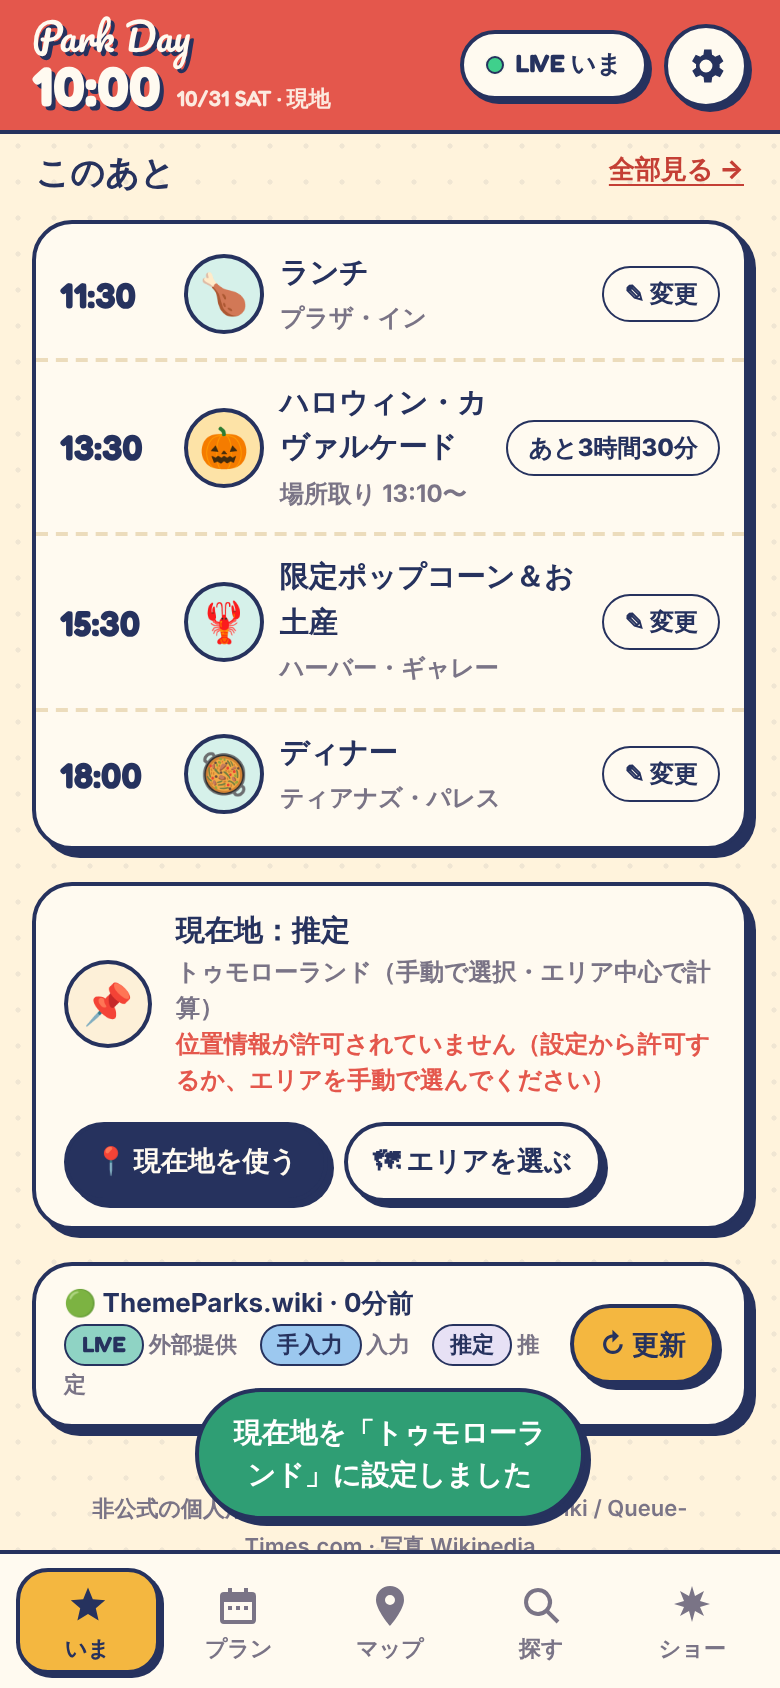
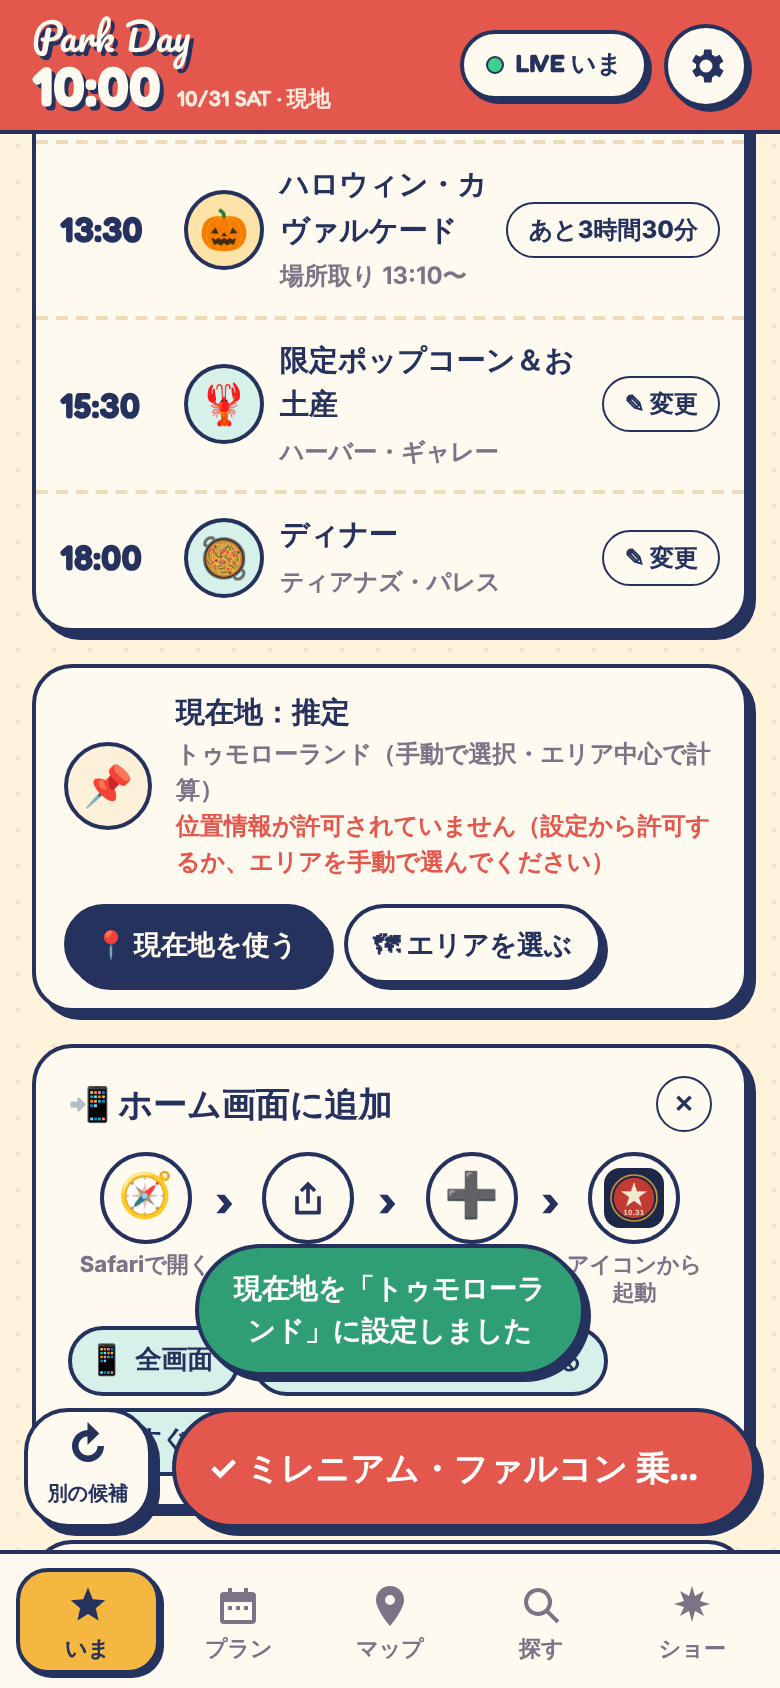
Add resume/drop alerts, wait-time trend charts, one-handed action bar, add-to-home guide
- Alerts when a closed ride reopens or a popular ride's wait drops sharply;
  '行く！' pins it as the next destination (engine pin support)
- Today's observed waits recorded on-device: sparkline + trend arrow in the
  list, full chart with estimate overlay and touch readout in the detail
- Fixed thumb-reach bar: big '✓ … 乗った！' + '別の候補' on the home tab
- Visual add-to-Home-Screen guide (hidden when already installed)

Claude-Session: https://claude.ai/code/session_01MSeHRc9pCts64YeVAfPi3j

diff --git a/public/js/app.js b/public/js/app.js
@@ -22,6 +22,8 @@ const defaults = {
   landAt: 0,
   lastDone: null,      // { id, at }
   sim: null,           // { base: minutes, setAt: ms } — time simulation for testing
+  pin: null,           // { id, until } destination chosen from an alert
+  a2hsDismissed: false,
   exploreTab: 'rides', exploreFilter: 'all', exploreSort: 'reco', foodFilter: 'all',
   mapFilter: 'rides',
   tab: 'home',
@@ -46,6 +48,8 @@ const R = {
   meta: null, photos: {},
   gpsPos: null, gpsErr: null, gpsWatch: null,
   lastPlanIds: null,
+  hist: {},            // { rideId: [[min, wait|null], ...] } today's observed waits (this device)
+  alerts: [],          // [{ id, type:'reopen'|'drop', from, to, at }]
 };
 try {
   const c = JSON.parse(localStorage.getItem(KEY + ':live') || 'null');
@@ -54,6 +58,8 @@ try {
   if (m && Date.now() - m.at < 12 * 3600e3) R.meta = m.data;
   const p = JSON.parse(localStorage.getItem(KEY + ':photos') || 'null');
   if (p && Date.now() - p.at < 3 * 86400e3 && p.data && Object.values(p.data)[0]?.source) R.photos = p.data;
+  const h = JSON.parse(localStorage.getItem(KEY + ':hist') || 'null');
+  if (h?.date === TRIP.date) R.hist = h.data || {};
 } catch { /* ignore */ }
 
 // =====================================================================
@@ -173,6 +179,7 @@ async function fetchLive({ manual = false } = {}) {
     clearTimeout(t);
     const j = await res.json().catch(() => null);
     if (!res.ok || !j?.ok) throw new Error(j?.errors?.join(' / ') || `HTTP ${res.status}`);
+    if (!j.stale) { detectAlerts(R.live?.ok && !R.live.stale ? R.live : null, j); recordHistory(j); }
     R.live = j; R.liveReceivedAt = Date.now(); R.liveStatus = j.stale ? 'stale' : 'ok'; R.liveError = j.stale ? (j.errors || []).join(' / ') : null;
     localStorage.setItem(KEY + ':live', JSON.stringify({ at: R.liveReceivedAt, data: j }));
     if (manual) toast(j.stale ? '最新取得に失敗：前回の値を表示中' : `待ち時間を更新しました（${j.sourceLabel}）`, j.stale ? 'error' : 'ok');
@@ -183,6 +190,36 @@ async function fetchLive({ manual = false } = {}) {
   }
   renderAll();
 }
+function recordHistory(j) {
+  const m = Math.round(nowMin());
+  for (const [id, v] of Object.entries(j.attractions || {})) {
+    const arr = (R.hist[id] ||= []);
+    const last = arr[arr.length - 1];
+    const w = v.status === 'OPERATING' && Number.isFinite(v.wait) ? v.wait : null;
+    if (last && Math.abs(last[0] - m) < 2) { last[1] = w; continue; }
+    arr.push([m, w]);
+    if (arr.length > 300) arr.shift();
+  }
+  try { localStorage.setItem(KEY + ':hist', JSON.stringify({ date: TRIP.date, data: R.hist })); } catch { /* full */ }
+}
+// Compare with the previous LIVE sample: a closed ride reopening, or a sudden wait drop.
+function detectAlerts(prev, next) {
+  if (!prev?.attractions || nowMin() < hours().open) return;
+  const fresh = [];
+  for (const [id, v] of Object.entries(next.attractions || {})) {
+    const a = attractionById[id], p0 = prev.attractions[id];
+    if (!a || !p0 || S.done[id] || S.excluded[id]) continue;
+    if (p0.status !== 'OPERATING' && v.status === 'OPERATING' && p0.status !== 'REFURBISHMENT') fresh.push({ id, type: 'reopen', to: v.wait });
+    else if (v.status === 'OPERATING' && Number.isFinite(p0.wait) && Number.isFinite(v.wait) && p0.wait - v.wait >= 15 && v.wait <= p0.wait * 0.7 && (a.pop >= 4 || a.must)) fresh.push({ id, type: 'drop', from: p0.wait, to: v.wait });
+  }
+  if (!fresh.length) return;
+  fresh.sort((x, y) => (attractionById[y.id].must - attractionById[x.id].must) || (PRIORITY[y.id] || 0) - (PRIORITY[x.id] || 0));
+  const now = nowMin();
+  R.alerts = [...fresh.map((f) => ({ ...f, at: now })), ...R.alerts.filter((x) => !fresh.some((f) => f.id === x.id))].slice(0, 3);
+  try { navigator.vibrate?.([180, 80, 180]); } catch { /* unsupported (iOS) */ }
+}
+const activeAlerts = () => R.alerts.filter((x) => nowMin() - x.at < 20 && !S.done[x.id]);
+
 async function fetchMeta() {
   try {
     const res = await fetch('/api/meta');
@@ -248,7 +285,7 @@ function ctx(extra = {}) {
   return {
     now, openMin: h.open, closeMin: h.close, pos: (() => { const p = position(); return p.lat == null ? null : p; })(),
     planId: S.plan, done: S.done, excluded: S.excluded, skip: S.skip, live, crowd: crowdRatio(live, now),
-    anchors: anchors(), coords: coordsMap(), ...extra,
+    anchors: anchors(), coords: coordsMap(), pin: S.pin, ...extra,
   };
 }
 
@@ -318,6 +355,7 @@ function markDone(id) {
   S.doneMin[id] = nowMin();
   S.lastDone = { id, at: Date.now() };
   delete S.skip[id];
+  if (S.pin?.id === id) S.pin = null;
   save(); renderAll();
   const n = doneRides().length;
   toast(`✓ ${doneName(id)} 完了！${attractionById[id] ? `（${n}つ目）` : ''}`, 'ok', { label: '取り消す', fn: () => undoDone(id, true) });
@@ -384,7 +422,7 @@ function renderClock() {
 const RCHIP = {
   must: ['★', '必須', 'must'], dip: ['📉', 'いつもより空き', 'good'], later: ['🔥', 'あとで混む', 'hot'], short: ['⏱', '待ち短め', 'good'],
   near: ['📍', 'すぐ近く', 'good'], pop: ['👑', '大人気', ''], fit: ['✅', '次の予定に間に合う', ''], bump: ['↪', '休憩を後ろへ', 'warn'],
-  soft: ['⚡', '場所取り短め', 'warn'], close: ['🌙', '閉園前に並べばOK', 'warn'],
+  soft: ['⚡', '場所取り短め', 'warn'], close: ['🌙', '閉園前に並べばOK', 'warn'], pin: ['📌', 'あなたが選択', 'must'],
 };
 const rchips = (reasons) => `<div class="rchips">${(reasons || []).map((x) => {
   const [i, t, k] = RCHIP[x.k] || ['•', x.t, ''];
@@ -396,6 +434,79 @@ function miniBar(start, parts, endLabel, endTime) {
   const total = parts.reduce((s, p) => s + Math.max(0, p.m), 0) || 1;
   return `<div class="minitl"><div class="minitl__bar">${parts.filter((p) => p.m > 0).map((p) => `<div class="minitl__seg minitl__seg--${p.k}" style="flex:${p.m} 1 0">${p.m / total > 0.14 ? esc(p.t) : ''}</div>`).join('')}</div>
     <div class="minitl__labels"><span>いま ${clock(start)}</span><span>${endLabel} ${clock(endTime)}</span></div></div>`;
+}
+
+// ---------- wait-time trend (today's observed values on this device) ----------
+function trendOf(id) {
+  const pts = (R.hist[id] || []).filter((p) => p[1] != null);
+  if (pts.length < 2) return null;
+  const last = pts[pts.length - 1];
+  const ref = pts.filter((p) => p[0] <= last[0] - 20).pop() || pts[0];
+  if (last[0] - ref[0] < 10) return null;
+  const d = last[1] - ref[1];
+  return { d, dir: d <= -10 ? 'down' : d >= 10 ? 'up' : 'flat', mins: last[0] - ref[0] };
+}
+const TREND = { down: ['↘', '減少中', 'var(--good)'], up: ['↗', '増加中', 'var(--bad)'], flat: ['→', '横ばい', 'var(--muted)'] };
+function sparkSmall(id) {
+  const pts = (R.hist[id] || []).filter((p) => p[1] != null);
+  if (pts.length < 2) return '';
+  const w = 70, h = 22, x0 = pts[0][0], x1 = Math.max(pts[pts.length - 1][0], x0 + 30);
+  const ymax = Math.max(30, ...pts.map((p) => p[1]));
+  const X = (m) => 2 + ((m - x0) / (x1 - x0)) * (w - 8), Y = (v) => h - 3 - (v / ymax) * (h - 6);
+  const t = trendOf(id);
+  const last = pts[pts.length - 1];
+  return `<span class="spark" title="今日の待ち時間の推移"><svg viewBox="0 0 ${w} ${h}" width="${w}" height="${h}" aria-hidden="true">
+    <line x1="2" x2="${w - 2}" y1="${h - 3}" y2="${h - 3}" stroke="var(--soft)" stroke-width="1"/>
+    <polyline fill="none" stroke="var(--navy)" stroke-width="2" stroke-linejoin="round" stroke-linecap="round" points="${pts.map((p) => `${X(p[0]).toFixed(1)},${Y(p[1]).toFixed(1)}`).join(' ')}"/>
+    <circle cx="${X(last[0]).toFixed(1)}" cy="${Y(last[1]).toFixed(1)}" r="3.5" fill="var(--red)" stroke="var(--paper)" stroke-width="1.5"/></svg>${t ? `<b style="color:${TREND[t.dir][2]}">${TREND[t.dir][0]}</b>` : ''}</span>`;
+}
+function sparkBig(a) {
+  const pts = (R.hist[a.id] || []);
+  const h0 = hours();
+  const W = 320, H = 130, L = 30, Rr = 8, T = 10, B = 22;
+  const x0 = h0.open, x1 = h0.close;
+  const est = [];
+  for (let m = x0; m <= x1; m += 30) est.push([m, Math.round(estimateWait(a, m) * crowdRatio(liveMap(), nowMin()))]);
+  const vals = [...pts.filter((p) => p[1] != null).map((p) => p[1]), ...est.map((p) => p[1])];
+  const ymax = Math.max(30, Math.ceil(Math.max(...vals) / 30) * 30);
+  const X = (m) => L + ((m - x0) / (x1 - x0)) * (W - L - Rr), Y = (v) => T + (1 - v / ymax) * (H - T - B);
+  const grid = [0, ymax / 2, ymax].map((v) => `<line x1="${L}" x2="${W - Rr}" y1="${Y(v)}" y2="${Y(v)}" stroke="var(--soft)" stroke-width="1"/><text x="${L - 4}" y="${Y(v) + 4}" text-anchor="end" class="ax">${v}</text>`).join('');
+  const xt = [8, 12, 16, 20].filter((hh) => hh * 60 >= x0 && hh * 60 <= x1).map((hh) => `<text x="${X(hh * 60)}" y="${H - 6}" text-anchor="middle" class="ax">${hh}時</text>`).join('');
+  // observed line, broken where the ride was closed (null)
+  const segs = []; let cur = [];
+  for (const p of pts) { if (p[1] == null) { if (cur.length) segs.push(cur); cur = []; } else cur.push(p); }
+  if (cur.length) segs.push(cur);
+  const live = segs.map((sg) => sg.length === 1 ? `<circle cx="${X(sg[0][0])}" cy="${Y(sg[0][1])}" r="3" fill="var(--navy)"/>` : `<polyline fill="none" stroke="var(--navy)" stroke-width="2" stroke-linejoin="round" stroke-linecap="round" points="${sg.map((p) => `${X(p[0]).toFixed(1)},${Y(p[1]).toFixed(1)}`).join(' ')}"/>`).join('');
+  const nowX = X(Math.min(x1, Math.max(x0, nowMin())));
+  const lastP = pts.filter((p) => p[1] != null).pop();
+  const data = esc(JSON.stringify({ pts: pts.filter((p) => p[1] != null), est, x0, x1, L, R: Rr, W }));
+  return `<div class="bigspark" data-spark="${data}">
+    <div class="bigspark__head"><b>待ち時間の推移</b><span class="bigspark__legend"><i class="lg lg--live"></i>今日の実測 <i class="lg lg--est"></i>推定</span></div>
+    <svg viewBox="0 0 ${W} ${H}" width="100%" role="img" aria-label="${esc(a.short)}の待ち時間の推移">
+      ${grid}${xt}
+      <polyline fill="none" stroke="var(--muted)" stroke-width="1.5" stroke-dasharray="4 4" points="${est.map((p) => `${X(p[0]).toFixed(1)},${Y(p[1]).toFixed(1)}`).join(' ')}"/>
+      ${live}
+      <line x1="${nowX}" x2="${nowX}" y1="${T}" y2="${H - B}" stroke="var(--red)" stroke-width="1.5" stroke-dasharray="2 3"/>
+      ${lastP ? `<circle cx="${X(lastP[0])}" cy="${Y(lastP[1])}" r="5" fill="var(--red)" stroke="var(--paper)" stroke-width="2"/>` : ''}
+      <line class="bigspark__x" x1="0" x2="0" y1="${T}" y2="${H - B}" stroke="var(--navy)" stroke-width="1" visibility="hidden"/>
+    </svg>
+    <div class="bigspark__tip">${pts.length ? 'グラフをなぞると時刻ごとの値' : 'アプリを開いている間の実測を記録していきます'}</div></div>`;
+}
+document.addEventListener('pointermove', sparkHover);
+document.addEventListener('pointerdown', sparkHover);
+function sparkHover(e) {
+  const box = e.target.closest?.('.bigspark');
+  if (!box) return;
+  const d = JSON.parse(box.dataset.spark);
+  const svg = box.querySelector('svg'), r = svg.getBoundingClientRect();
+  const vx = ((e.clientX - r.left) / r.width) * d.W;
+  const m = d.x0 + ((vx - d.L) / (d.W - d.L - d.R)) * (d.x1 - d.x0);
+  if (m < d.x0 || m > d.x1) return;
+  const near = (arr) => arr.reduce((b, p) => (!b || Math.abs(p[0] - m) < Math.abs(b[0] - m) ? p : b), null);
+  const lp = near(d.pts), ep = near(d.est);
+  const line = box.querySelector('.bigspark__x');
+  line.setAttribute('x1', vx); line.setAttribute('x2', vx); line.setAttribute('visibility', 'visible');
+  box.querySelector('.bigspark__tip').innerHTML = `<b>${clock(m)}</b>　${lp && Math.abs(lp[0] - m) <= 15 ? `実測 <b>${lp[1]}分</b>（${clock(lp[0])}）　` : ''}推定 ${ep ? ep[1] : '-'}分`;
 }
 
 // =====================================================================
@@ -445,6 +556,13 @@ function renderHome() {
     html += `<div class="note note--bad"><span class="note__icon">⚠</span><div><div class="note__t">${sim.missingMust.map((id) => esc(attractionById[id].short)).join('・')} が入りきらない</div><div class="note__s">食事・ショーの時間を見直してください</div></div></div>`;
   }
 
+  for (const al of activeAlerts()) {
+    const a = attractionById[al.id];
+    html += `<div class="alert" role="alert"><div class="alert__icon">${al.type === 'reopen' ? '🎉' : '📉'}</div>
+      <div class="alert__body"><div class="alert__t">${esc(a.short)} ${al.type === 'reopen' ? '再開！' : '空いてきた！'}</div>
+        <div class="alert__s">${al.type === 'reopen' ? `いま 待ち${al.to ?? '?'}分` : `<s>${al.from}分</s> → <b>${al.to}分</b>`}</div></div>
+      <button class="btn btn--sm btn--primary" data-pin="${al.id}">行く！</button><button class="alert__x" data-dismiss-alert="${al.id}" aria-label="閉じる">✕</button></div>`;
+  }
   html += renderNextCard(r, c);
 
   if (r.alts.length) {
@@ -472,9 +590,40 @@ function renderHome() {
   }
 
   html += renderLocCard(pos);
+  if (!isStandalone() && !S.a2hsDismissed) html += a2hsCard();
   html += renderDataCard();
   html += footer();
   el.innerHTML = html;
+  renderActionBar(r);
+}
+const isStandalone = () => navigator.standalone === true || matchMedia('(display-mode: standalone)').matches;
+function a2hsCard() {
+  return `<div class="card card--pad a2hs"><div class="h-section" style="margin:0 0 10px"><h2>📲 ホーム画面に追加</h2><button class="alert__x" data-act="a2hs-off" aria-label="閉じる">✕</button></div>
+    <div class="flow">
+      <div class="flow__step"><div class="flow__icon">🧭</div><div class="flow__s">Safariで開く</div></div>
+      <div class="flow__step"><div class="flow__icon"><svg viewBox="0 0 24 24" width="22" height="22"><path fill="var(--navy)" d="M12 3 7.5 7.5l1.4 1.4L11 6.8V15h2V6.8l2.1 2.1 1.4-1.4ZM5 11v9a1 1 0 0 0 1 1h12a1 1 0 0 0 1-1v-9h-2v8H7v-8Z"/></svg></div><div class="flow__s">共有ボタン</div></div>
+      <div class="flow__step"><div class="flow__icon">➕</div><div class="flow__s">ホーム画面に追加</div></div>
+      <div class="flow__step"><div class="flow__icon"><img src="/icon-180.png" alt="" width="30" height="30" style="border-radius:8px"></div><div class="flow__s">アイコンから起動</div></div>
+    </div>
+    <div class="rchips" style="margin-top:10px"><span class="rchip rchip--good"><i>📱</i>全画面</span><span class="rchip rchip--good"><i>📶</i>電波が弱くても開ける</span><span class="rchip rchip--good"><i>⚡</i>すぐ起動</span></div></div>`;
+}
+// Thumb-reach action bar (one-handed): the two most frequent actions, always at the bottom.
+function renderActionBar(r) {
+  let bar = $('#actionbar');
+  if (!bar) { bar = document.createElement('div'); bar.id = 'actionbar'; bar.className = 'actionbar'; document.body.appendChild(bar); }
+  const p = r?.primary;
+  const show = S.tab === 'home' && p && (p.type === 'ride' || p.type === 'anchor');
+  bar.hidden = !show;
+  document.body.classList.toggle('has-actionbar', !!show);
+  if (!show) return;
+  if (p.type === 'ride') {
+    bar.innerHTML = `<button class="actionbar__side" data-skip="${p.a.id}" aria-label="別の候補"><span>↻</span><small>別の候補</small></button>
+      <button class="actionbar__main" data-done="${p.a.id}">✓ ${esc(p.a.short)} 乗った！</button>`;
+  } else {
+    const x = p.anchor;
+    bar.innerHTML = `<button class="actionbar__side" data-anchor-edit="${x.id}" aria-label="変更"><span>✎</span><small>変更</small></button>
+      <button class="actionbar__main" data-done="${x.id}">✓ ${esc(x.title)} ${x.kind === 'show' ? '観た！' : '食べた！'}</button>`;
+  }
 }
 
 function renderNextCard(r, c) {
@@ -502,13 +651,13 @@ function renderNextCard(r, c) {
           <div class="stat"><div class="stat__k">🏁 終わり</div><div class="stat__v">${clock(p.finish)}</div><div class="stat__src"><span class="tag tag--ghost">見込み</span></div></div>
         </div>
         ${rchips(p.reasons)}
+        ${(() => { const t = trendOf(a.id); return t && t.dir !== 'flat' ? `<div class="rchips"><span class="rchip ${t.dir === 'down' ? 'rchip--good' : 'rchip--hot'}"><i>${TREND[t.dir][0]}</i>${t.mins}分で${t.d > 0 ? '+' : ''}${t.d}分（${TREND[t.dir][1]}）</span></div>` : ''; })()}
         ${bar}
-        <button class="btn btn--primary" data-done="${a.id}">✓ 乗り終わった！</button>
         <div class="btnrow btnrow--2">
           <a class="btn btn--ghost" href="${routeUrl(coordsOf(a.id))}" target="_blank" rel="noopener">🧭 ルート</a>
-          <button class="btn btn--ghost" data-skip="${a.id}">↻ 別の候補</button>
+          <button class="btn btn--ghost" data-open="${a.id}">ℹ くわしく</button>
         </div>
-        <button class="linkbtn" data-open="${a.id}">ℹ くわしく・写真</button>
+        <div class="hint">👇 乗ったら下の大きなボタン</div>
       </div></article>`;
   }
 
@@ -532,7 +681,6 @@ function renderNextCard(r, c) {
           <div class="stat"><div class="stat__k">${isShow ? '⏰ 場所取り' : '⌛ 所要'}</div><div class="stat__v">${isShow ? clock(x.start - x.claim) : x.end - x.start + '<small>分</small>'}</div></div>
         </div>
         <div class="rchips">${chips.map(([i, t, k]) => `<span class="rchip ${k ? 'rchip--' + k : ''}"><i>${i}</i>${esc(t)}</span>`).join('')}</div>
-        <button class="btn btn--primary" data-done="${x.id}">✓ ${isShow ? '観た！' : '食べ終わった！'}</button>
         <div class="btnrow btnrow--2">
           <a class="btn btn--ghost" href="${routeUrl(x.pos)}" target="_blank" rel="noopener">🧭 ルート</a>
           <button class="btn btn--ghost" data-anchor-edit="${x.id}">✎ ${isShow ? '回を変える' : '時間・お店'}</button>
@@ -690,6 +838,7 @@ function renderExplore() {
           <div class="item__top"><div><div class="item__name">${a.must ? '★ ' : ''}${esc(a.ja)}</div>${S.done[a.id] ? '<span class="tag tag--live">✓ 完了</span>' : ''}<div class="item__en">${esc(a.en)}</div></div>
             <div class="item__wait">${w.wait == null ? `<span class="tag tag--bad">${esc(STATUS_JA[w.status] || '休止')}</span>` : `<b class="${waitClass(w.wait)}">${w.wait}<small>分</small></b><div>${kindTag(w.kind)}</div>`}</div></div>
           <div class="item__meta"><span>${esc(landById[a.land]?.ja)}</span>·<span>徒歩${walk}分</span>·<span>スリル ${stars(a.thrill)}</span></div>
+          ${sparkSmall(a.id) ? `<div class="item__meta">${sparkSmall(a.id)}<span>今日の推移</span></div>` : ''}
           <div class="item__meta">${rank.has(a.id) ? '<span class="tag tag--gold">今おすすめ</span>' : ''}${/日本未上陸/.test(a.japan) ? '<span class="tag">日本未上陸</span>' : ''}${a.must ? '<span class="tag tag--must">必須</span>' : ''}</div>
         </div></button>`).join('') || '<div class="empty">該当するアトラクションはありません</div>'}</div>`;
     el.innerHTML = html;
@@ -805,6 +954,7 @@ function openAttraction(id) {
       </div>
       ${!av.ok ? `<div class="note note--bad"><span class="note__icon">⛔</span><div>${esc(av.reason)}${a.must ? '。必須なので予定からは外さず、再開したら最優先で案内します。' : '。'}</div></div>` : ''}
       <p class="para">${esc(a.desc)}</p>
+      ${sparkBig(a)}
       <div class="box"><b>🇯🇵 日本との違い</b><br>${esc(a.japan)}</div>
       <div class="box"><b>💡 攻略メモ</b><br>${esc(a.tip)}</div>
       <dl class="kv">
@@ -915,6 +1065,7 @@ function go(tab) {
   window.scrollTo(0, 0);
 }
 function renderView(tab = S.tab) {
+  if (tab !== 'home') renderActionBar(null);
   if (tab === 'home') renderHome();
   else if (tab === 'plan') renderPlan();
   else if (tab === 'explore') renderExplore();
@@ -965,6 +1116,11 @@ document.addEventListener('click', async (e) => {
   if (d.openFood) return openFood(d.openFood);
   if (d.done) return markDone(d.done);
   if (d.undo) return undoDone(d.undo);
+  if (d.pin) {
+    S.pin = { id: d.pin, until: nowMin() + 30 }; R.alerts = R.alerts.filter((x) => x.id !== d.pin); save();
+    go('home'); return toast(`📌 ${attractionById[d.pin].short} を次の行き先にしました`, 'ok');
+  }
+  if (d.dismissAlert) { R.alerts = R.alerts.filter((x) => x.id !== d.dismissAlert); return renderHome(); }
   if (d.skip) { skipFor(d.skip); const el = $('#alts'); return; }
   if (d.plan) return setPlan(d.plan);
   if (d.xtab) { S.exploreTab = d.xtab; save(); return renderExplore(); }
@@ -1024,6 +1180,7 @@ document.addEventListener('click', async (e) => {
   if (d.mealReset) { delete S.prefs.mealOverrides[d.mealReset]; save(); closeSheet(); renderAll(); return toast('初期設定に戻しました'); }
   switch (d.act) {
     case 'refresh': return fetchLive({ manual: true });
+    case 'a2hs-off': S.a2hsDismissed = true; save(); return renderHome();
     case 'replan': {
       const before = R.lastPlanIds;
       await fetchLive({ manual: false });

diff --git a/public/css/app.css b/public/css/app.css
@@ -407,3 +407,36 @@ details.more p { margin: 6px 0 0; color: var(--muted); font-size: 12.5px; }
 .tl__item--done .tl__name { color: var(--navy); }
 .check.is-done { background: var(--mint); }
 .tl--done::before { display: none; }
+
+/* ---------- one-handed action bar ---------- */
+.actionbar { position: fixed; z-index: 880; left: 12px; right: 12px; bottom: calc(var(--tabh, 76px) + 10px); display: grid; grid-template-columns: 64px 1fr; gap: 10px; max-width: 536px; margin: 0 auto; }
+.actionbar__main { min-height: 60px; border-radius: 999px; border: var(--bw) solid var(--navy); background: var(--red); color: #fff; font-family: var(--round), var(--jp); font-weight: 700; font-size: 17px; box-shadow: var(--pop-lg); padding: 0 16px; white-space: nowrap; overflow: hidden; text-overflow: ellipsis; }
+.actionbar__side { min-height: 60px; border-radius: 22px; border: var(--bw) solid var(--navy); background: var(--paper); color: var(--navy); box-shadow: var(--pop-lg); display: grid; place-items: center; gap: 0; padding: 4px 0; }
+.actionbar__side span { font-size: 22px; line-height: 1; font-weight: 900; }
+.actionbar__side small { font-size: 10px; font-weight: 800; }
+.actionbar button:active { transform: translate(4px, 4px); box-shadow: none; }
+body.has-actionbar #views { padding-bottom: calc(180px + var(--safe-b)); }
+body.has-actionbar .toast { bottom: calc(var(--tabh, 76px) + 86px); }
+.hint { text-align: center; font-size: 12px; font-weight: 800; color: var(--muted); }
+
+/* ---------- alerts ---------- */
+.alert { display: grid; grid-template-columns: 44px 1fr auto 28px; gap: 10px; align-items: center; padding: 10px 10px 10px 12px; border-radius: 20px; background: var(--mint); border: var(--bw) solid var(--navy); box-shadow: var(--pop-lg); animation: wiggle .6s ease 2; }
+@keyframes wiggle { 25% { transform: rotate(-1.2deg); } 75% { transform: rotate(1.2deg); } }
+.alert__icon { font-size: 32px; line-height: 1; text-align: center; }
+.alert__t { font-weight: 900; font-size: 16px; color: var(--navy); line-height: 1.3; }
+.alert__s { font-family: var(--round), var(--jp); font-size: 14px; font-weight: 600; color: var(--navy); }
+.alert__x { width: 28px; height: 28px; border-radius: 50%; border: 1.5px solid var(--navy); background: var(--paper); font-size: 12px; font-weight: 900; color: var(--navy); display: grid; place-items: center; padding: 0; }
+
+/* ---------- trend charts ---------- */
+.spark { display: inline-flex; align-items: center; gap: 3px; }
+.spark b { font-size: 15px; }
+.bigspark { border: var(--bw) solid var(--navy); border-radius: 16px; background: var(--paper); padding: 10px 10px 8px; touch-action: pan-y; }
+.bigspark__head { display: flex; justify-content: space-between; align-items: center; gap: 8px; font-size: 13px; color: var(--navy); margin-bottom: 4px; }
+.bigspark__legend { font-size: 11px; color: var(--muted); font-weight: 800; display: inline-flex; align-items: center; gap: 4px; }
+.lg { display: inline-block; width: 16px; height: 0; border-top: 2px solid var(--navy); margin-left: 6px; }
+.lg--est { border-top: 2px dashed var(--muted); }
+.bigspark .ax { font-family: var(--round); font-size: 10px; fill: var(--muted); font-weight: 600; }
+.bigspark__tip { font-size: 12px; color: var(--muted); font-weight: 700; min-height: 18px; }
+.bigspark__tip b { color: var(--navy); }
+.a2hs .flow__icon { background: var(--paper); }
+body:has(.sheet:not([hidden])) .toast { bottom: auto; top: calc(14px + var(--safe-t)); }

diff --git a/public/js/engine.js b/public/js/engine.js
@@ -262,6 +262,12 @@ export function recommend(ctx) {
   let pool = cands;
   if (targetReached) pool = cands.filter((c) => c.a.must || c.wait <= 25);
 
+  // A destination the user explicitly chose (e.g. from a "再開しました" alert) goes first.
+  const pinned = ctx.pin && ctx.pin.until > ctx.now ? cands.find((c) => c.a.id === ctx.pin.id) : null;
+  if (pinned && !result.primary) {
+    pinned.reasons = [{ k: 'pin', t: 'あなたが選んだ行き先' }, ...pinned.reasons];
+    result.primary = { type: 'ride', ...pinned };
+  }
   if (!result.primary) {
     if (pool.length) {
       result.primary = { type: 'ride', ...pool[0] };
